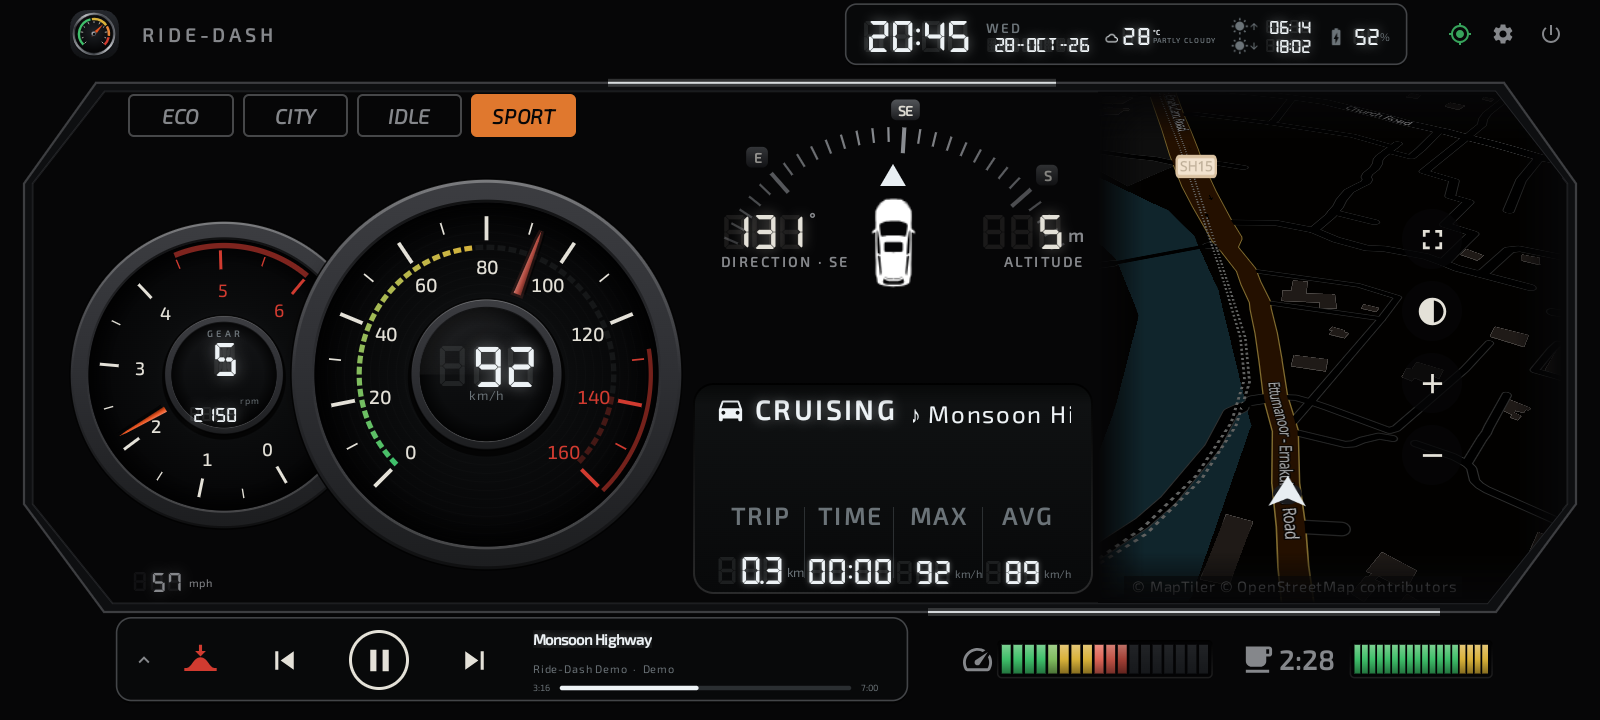
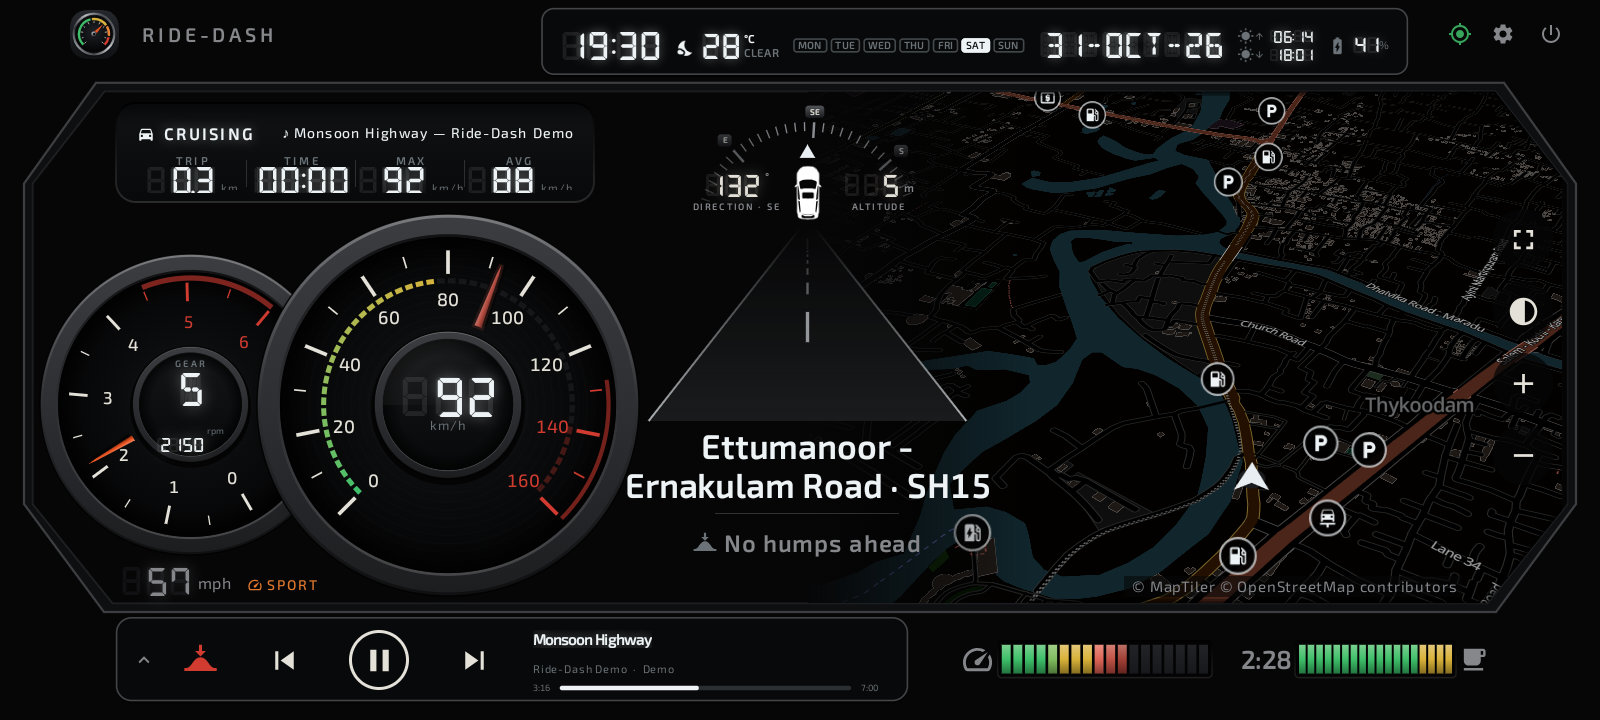
User guide 1.5.0: speed limits, road info, places, long-press navigation, own speed breakers; new screenshots

diff --git a/user-guide.md b/user-guide.md
@@ -4,20 +4,37 @@ title: Ride-Dash user manual
 
 # Ride-Dash user manual
 
-_Version 1.3.0 · October 2026_
+_Version 1.5.0 · October 2026_
 
 Ride-Dash turns the phone in your holder — or your car's Android head unit — into a calm, complete car dashboard:
-live speed, gear, heading and altitude, trip statistics, terrain, speed breaker and break alerts spoken aloud, music,
-the map and "Where's my car". Everything works on the device; no account needed.
+live speed, gear, heading and altitude, the road you are on and its speed limit, trip statistics, terrain, speed
+breaker and break alerts spoken aloud, music, the map with the places you choose, and "Where's my car". Everything
+works on the device; no account needed.
 
 ![Ride-Dash in the Duo layout](images/manual/duo_white_driving_1600x720.png)
 
-**Contents:** [What's new](#whats-new-in-130) · [1 Installing](#1-installing) · [2 First start](#2-first-start) ·
-[3 The dashboard](#3-the-dashboard) · [4 Layouts and colours](#4-layouts-and-colours) · [5 Speed](#5-speed) ·
-[6 Driving mode and terrain](#6-driving-mode-and-terrain) · [7 Map](#7-map) · [8 Music](#8-music) ·
-[9 Trips](#9-trips) · [10 Breaks](#10-break-reminder) · [11 Speed breakers](#11-speed-breakers) ·
-[12 Voice alerts](#12-voice-alerts) · [13 Where's my car](#13-wheres-my-car) · [14 Settings](#14-settings-reference) ·
-[15 Export and storage](#15-export-storage-and-deleting-data) · [16 Troubleshooting](#16-troubleshooting)
+**Contents:** [What's new](#whats-new-in-150) · [1 Installing](#1-installing) · [2 First start](#2-first-start) ·
+[3 The dashboard](#3-the-dashboard) · [4 Layouts and colours](#4-layouts-and-colours) · [5 Speed and speed limits](#5-speed-and-speed-limits) ·
+[6 Driving mode, terrain and road info](#6-driving-mode-terrain-and-road-info) · [7 Map](#7-map) ·
+[8 Places on the map](#8-places-on-the-map) · [9 Music](#9-music) · [10 Trips](#10-trips) ·
+[11 Breaks](#11-break-reminder) · [12 Speed breakers](#12-speed-breakers) · [13 Voice alerts](#13-voice-alerts) ·
+[14 Where's my car](#14-wheres-my-car) · [15 Settings](#15-settings-reference) ·
+[16 Export and storage](#16-export-storage-and-deleting-data) · [17 Troubleshooting](#17-troubleshooting)
+
+## What's new in 1.5.0
+
+- **Road speed limits:** a speed-limit sign for the road you are on (from OpenStreetMap, where mapped), and
+  "Slow down" at that limit plus a tolerance you choose (section 5).
+- **Street name and road info:** the road you are on, the terrain with its gradient ("UPHILL 6 %") and the next speed
+  breaker, shown where turn-by-turn normally appears (section 6).
+- **Places of your choice on the map:** fuel, EV charging, ATMs, hospitals, toll booths, hotels, viewpoints, places of
+  worship and more — tick the ones you want, each with its own icon (section 8).
+- **Navigate to a long-pressed place** by name, also on older head units (section 7).
+- **Turn-by-turn without a box:** the next turn sits right on the dashboard in every layout.
+- **Start-up sweep:** the dials light up and sweep their needles once when Ride-Dash starts (tap to skip).
+- **Every layout tidied up:** bigger maps that reach the frame, the driving style as an icon and coloured word, the
+  rest bar with the coffee cup after it, rpm in the dial, cleaner info bars.
+- White is now the default colour scheme for new installs.
 
 ## What's new in 1.3.0
 
@@ -77,13 +94,14 @@ dashboard top, not inside the glovebox or under metal. Wait outdoors with the en
 | Top left | Your logo and vehicle name; alerts appear here (break, speed breakers) |
 | Top centre | Time, weather, sunrise / sunset, battery, weekday and date |
 | Top right | GPS status, settings, power (end trip and exit) |
-| Mode chips | ECO · CITY · IDLE · SPORT — how you are driving |
-| Speedometer | Speed with colour zones; gear and rpm (estimated); the other unit below |
-| Compass | Heading, direction, altitude above sea level |
+| Driving style | ECO · CITY · IDLE · SPORT — an icon and a coloured word |
+| Speedometer | Speed with colour zones; gear and rpm (estimated); the other unit nearby |
+| Compass and road | Heading, direction, altitude above sea level; the road animation moves with your speed |
+| Road info | Street name, terrain with gradient, next speed breaker — or the next turn while navigating |
 | Trip display | Drive mode, terrain, distance, moving time, top and average speed |
-| Map | Where you are, heading up; speed breakers, sights, your parked car |
+| Map | Where you are, heading up; the places you chose, speed breakers, your parked car; speed-limit sign |
 | Bottom left | **Hump button** (mark a speed breaker), music controls and track |
-| Bottom right | Speed bar and break (rest) bar |
+| Bottom right | Speed bar and break (rest) bar — driving time, bar, coffee cup |
 
 The arrangement differs per layout, but every layout has the same pieces.
 
@@ -112,19 +130,33 @@ You can also upload a background image, your logo and a picture of your car (*Se
 
 ![Duo in Blue](images/manual/duo_blue_driving_1600x720.png)
 
-## 5. Speed
+## 5. Speed and speed limits
 
 - The big number is your speed in your colour scheme; the needle, arc and speed bar change colour with speed:
-  **green** below 50 km/h, **amber** from 50, **red** from 80 (the highway limit), darkest red at 120. Change the
-  limits in *Settings › Trip & speed › Speed colours*.
-- The other unit (mph or km/h) is shown small. Switch the main unit in *Settings › Trip & speed › Unit*.
-- Above the red limit the drive mode shows **OVERSPEED** and blinks; with voice alerts you hear "Slow down".
+  **green** below 50 km/h, **amber** from 50, **red** from 80, darkest red at 120. Change the limits in
+  *Settings › Trip & speed › Speed colours*.
+- The other unit (mph or km/h) is shown smaller. Switch the main unit in *Settings › Trip & speed › Unit*.
+
+**Road speed limit.** Where OpenStreetMap knows the speed limit of the road you are driving, a round sign shows it on
+the map (in Lap beside the driving style). Ride-Dash picks the road you are driving along, so a side road you cross
+doesn't take over. Above the limit plus your **tolerance** (+0, +5 or +10 km/h; default +5) the number on the sign
+turns red, the drive mode shows **SLOW DOWN** and, with voice alerts, you hear "Slow down. Speed limit 60."
+
+![Speed limit](images/manual/duo_white_speed-limit_1600x720.png)
+
+Where no limit is mapped — still many smaller roads in India — the sign is hidden and the old rule applies: SLOW DOWN
+at 80 % of the speedometer's scale, the voice at the red speed colour.
+
+The limits are downloaded for about 5 km around you from OpenStreetMap (your position rounded to about 1 km) and kept
+on the device for 30 days. *Settings › Trip & speed › Speed limits:* on/off and the tolerance.
+
+![Speed breaker and speed limit settings](images/manual/settings_trip-alerts_1600x720.png)
 
 ![Overspeed](images/manual/duo_white_overspeed_1600x720.png)
 
-## 6. Driving mode and terrain
+## 6. Driving mode, terrain and road info
 
-**Driving mode** (the chips): **ECO** smooth and steady · **CITY** slow, stop-and-go traffic · **IDLE** standing more
+**Driving style** (icon and coloured word): **ECO** smooth and steady · **CITY** slow, stop-and-go traffic · **IDLE** standing more
 than 30 s in a trip · **SPORT** brisk acceleration, braking or cornering. It comes from GPS alone and changes after a
 few seconds, so one brake at a signal doesn't flip it.
 
@@ -140,24 +172,74 @@ BRAKING, OVERSPEED, PARKED.
 | WINDING | Many bends |
 | GHAT | Winding and climbing or descending — a hill road |
 
-A new word appears only after it has held for 15 seconds. Phones with a barometer (most) measure height changes
+On climbs and descents the gradient is added: **UPHILL 6 %**, **DOWNHILL 5 %**, **GHAT 8 %**. A new word appears only
+after it has held for 15 seconds. Phones with a barometer (most) measure height changes
 precisely; head units use GPS height. The trip log shows how much of each trip was in each terrain.
 
 ![Ghat road](images/manual/duo_white_ghat-break-alert_1600x720.png)
+
+**Road info.** When no route is running, the place where turn-by-turn normally appears shows:
+
+- the **street name** of the road you are on, with its route number ("Ettumanoor - Ernakulam Road · SH15");
+- the **terrain** with its gradient;
+- the **next speed breaker** on your road ("Hump in 350 m" up to 2 km ahead, or "No humps ahead"), when speed breaker
+  alerts are on.
+
+The street name comes from the map itself, so it needs no extra data. It keeps the current road at junctions instead
+of flickering. On older head units that show the picture-tile map, street names aren't available and only the
+terrain and speed breaker lines appear. In some layouts the street name only appears once the map is zoomed in far
+enough to show street names.
+
+Where it shows: Duo and Lap under the map or compass, Classic and Twin beside the compass, Modern, Sport and Cockpit over
+the top of the map, Open over the road animation. While Google Maps or Waze is navigating, the **next turn** (arrow,
+distance, instruction) takes its place.
 
 ## 7. Map
 
 - **Heading-up:** the map turns with the car (north-up in *Settings › Map*).
 - **Map style:** *Classic* (dark street map, default) or *Modern* (a crisper vector map, on devices whose graphics allow it).
-- **Places and sights:** viewpoints, monuments, waterfalls and other sights get a camera marker. The places button
-  on the map shows or hides points of interest.
-- **Navigate anywhere:** press and hold a place on the map → "Navigate to …?" → **Navigate** opens Google Maps
-  directions by car.
+- **Places:** the places you choose (section 8). The places button on the map shows or hides them all.
 - **Full screen:** the expand button fills the screen with the map; Back returns.
 - **Next turn** from Google Maps or Waze appears on the dashboard while they navigate (needs the access in step 2).
 - Speed breakers show as red-bordered road signs; your parked car as a blue **P**.
 
-## 8. Music
+**Navigate to a long-pressed place.** Press and hold any spot on the map for about a second:
+
+1. Ride-Dash names the place under your finger — a shop, a landmark, or the road — and asks **"Navigate to MASS
+   Road?"** (or "Navigate here?" where there is no name), with how far away it is.
+2. **Navigate** opens Google Maps with directions by car from where you are; without Google Maps, any installed
+   navigation app is offered. **Cancel** or wait 15 seconds to close the question.
+
+![Navigate to a long-pressed place](images/manual/duo_white_navigate_1600x720.png)
+
+On older head units with the picture-tile map, press and hold a place icon to navigate to it by name; elsewhere the
+pressed spot is used. Press and hold one of **your own speed breakers** to delete it instead (section 12).
+
+## 8. Places on the map
+
+*Settings › Map › Map points of interest* (under **Show places**): tick the places you want to see. Each group has
+**Select all / Select none**; changes show on the map at once.
+
+| Group | Places (ticked when you install) |
+| --- | --- |
+| Essentials | **Fuel stations**, **EV charging**, **ATMs**, **Hospitals**, Pharmacies, **Police stations**, Toilets |
+| Vehicle | **Car service / repair**, **Tyre / puncture repair**, Car wash, **Parking**, **Toll booths** |
+| Food & rest | **Restaurants**, Cafés / tea shops, Fast food, **Hotels / motels / lodges**, **Rest areas** |
+| Travel | Railway stations, Bus stations, Airports |
+| Sightseeing | **Viewpoints / photo points**, Tourist attractions, Beaches, Waterfalls, Museums, Parks, Places of worship, Cinemas |
+
+![Map points of interest](images/manual/settings_map-places_1600x720.png)
+
+- Every type has its own icon in your display colour; places of worship show a church, mosque, temple or other icon by
+  religion.
+- To keep the map calm, only a few icons show when zoomed out — essentials first — and food appears once you zoom in to
+  street level. Names appear close up.
+- **Show places** off hides them all.
+- On phones and newer head units the places come with the map itself. On older head units (picture-tile map) they are
+  downloaded from OpenStreetMap for about 5 km around you, one group at a time, and kept for 30 days — the first time
+  in a new area they can take a minute to appear.
+
+## 9. Music
 
 The music panel shows the playing track, a seek bar and large **previous / play-pause / next** buttons on the left
 (within reach even with a phone holder in the middle of the screen). It follows whatever app is playing: Spotify,
@@ -169,7 +251,7 @@ YouTube Music, the radio app, Bluetooth audio.
 - The arrow at the left switches between the music panel and your favourite apps (*Settings › Launcher & apps ›
   Choose dock apps*).
 
-## 9. Trips
+## 10. Trips
 
 - A trip **starts by itself** after about 10 seconds above 7 km/h and 50 m moved — walking or GPS drift never starts
   one.
@@ -179,18 +261,18 @@ YouTube Music, the radio app, Bluetooth audio.
   and marked "auto (power off)" in the export.
 - The trip display shows **TRIP** (distance), **TIME** (moving time), **MAX** and **AVG** (moving average).
 - Trips shorter than 200 m or 1 minute are not kept.
-- *Settings › Trip & speed › Trip log* lists your trips; export them to Excel (section 15).
+- *Settings › Trip & speed › Trip log* lists your trips; export them to Excel (section 16).
 
-## 10. Break reminder
+## 11. Break reminder
 
-The coffee-cup bar fills with your continuous driving time (green, amber in the last 30 minutes, red with BREAK when
+The rest bar (driving time, the bar, then the coffee cup) fills from left to right with your continuous driving time (green, amber in the last 30 minutes, red with BREAK when
 due). After **2.5 hours** (*Remind after*), **Time for a break** blinks at the top left — never over the speed or the
 map — and is spoken. Tap it to snooze for 15 minutes. Short stops pause the timer; standing still for **15 minutes**
 (*Break length to reset*) starts it afresh.
 
 ![Break alert](images/manual/duo_white_ghat-break-alert_1600x720.png)
 
-## 11. Speed breakers
+## 12. Speed breakers
 
 **Humps ahead · 150 m** appears in red at the top left before a speed breaker on the road ahead, about 9 seconds
 early at your speed (80–300 m), and you hear "Speed breaker ahead". Only humps on the road you are driving count —
@@ -203,19 +285,25 @@ banner clears once you're past.
 breakers within about 5 km of you (sending only a position rounded to about 1 km) and keeps them on the phone, so
 roads you have driven before work offline.
 
-**Mark hump here:** many Indian humps are not in OpenStreetMap yet. Tap the **hump button** (bottom left) as you pass
-one — it is saved at your position and alerts like the others. To delete one of yours, press and hold it on the map →
-**Delete**.
+**Map your own speed breakers.** Many Indian humps are not in OpenStreetMap yet. As you drive over one, tap the **hump
+button** (the red hump sign at the bottom left of the dashboard). It is saved at your position — "Speed breaker marked"
+confirms it — shows on the map as a sign, and alerts you like the others from then on. Your marks stay only on this
+device.
+
+**Remove one of yours:** press and hold it on the map → **Delete this speed breaker?** → **Delete**. Speed breakers from
+OpenStreetMap can't be deleted (they are fixed in OpenStreetMap itself).
+
+**Next speed breaker:** the road info (section 6) shows how far the next one on your road is, up to 2 km ahead.
 
 *Settings › Trip & speed › Speed breakers:* on/off and **Alert distance** Near / Normal / Far.
 
-## 12. Voice alerts
+## 13. Voice alerts
 
 Spoken through the car speakers like navigation (music gets quieter, then comes back):
 
 - "You've been driving for two and a half hours. Time for a break." (your configured time)
-- "Slow down. Speed limit 80." after 3 seconds above the red limit; again only after slowing 5 km/h below it, at most
-  once a minute.
+- "Slow down. Speed limit 60." after 3 seconds above the road's limit plus your tolerance (or the red speed colour where
+  no limit is mapped); again only after slowing 5 km/h below it, at most once a minute.
 - "Speed breaker ahead."
 
 *Settings › Trip & speed › Voice alerts:* on/off, a switch per alert, and **Test**.
@@ -224,7 +312,7 @@ Spoken through the car speakers like navigation (music gets quieter, then comes 
 To get voices: install **Speech Services by Google** (Play Store, or its APK on units without Play), open *Android
 Settings › Text-to-speech*, choose it as the engine, download the **English (India)** voice, and restart Ride-Dash.
 
-## 13. Where's my car
+## 14. Where's my car
 
 When a trip ends, the last good GPS position is saved as your parking spot — even in a covered car park where the
 signal got weak at the end. Tap the **P** button on the map:
@@ -237,7 +325,7 @@ signal got weak at the end. Tap the **P** button on the map:
 
 The last 10 spots are in *Settings › Trip & speed › Parking history* and in the Excel export.
 
-## 14. Settings reference
+## 15. Settings reference
 
 | Page | Setting | Default |
 | --- | --- | --- |
@@ -255,10 +343,12 @@ The last 10 spots are in *Settings › Trip & speed › Parking history* and in 
 | Trip & speed | Speed bar full at | 160 km/h |
 | Trip & speed | Speed colours: amber / red / darkest red | 50 / 80 / 120 km/h |
 | Trip & speed | Speed breaker alerts · alert distance | on · Normal |
+| Trip & speed | Road speed limits · tolerance | on · +5 km/h |
 | Trip & speed | Voice alerts · break · overspeed · speed breakers | all on |
 | Trip & speed | Keep route points for | 90 days |
 | Map | Map style | Classic |
 | Map | Show places · heading-up · next-turn card | on · on · on |
+| Map | Map points of interest | essentials, vehicle, restaurants, hotels, rest areas, viewpoints (section 8) |
 | Display | Orientation | Landscape |
 | Display | 24-hour clock · driving mode indicator · logo at start-up | on · on · on |
 | Display | Full screen | on |
@@ -269,7 +359,7 @@ The last 10 spots are in *Settings › Trip & speed › Parking history* and in 
 | Launcher & apps | Show app dock · dock apps | on · a few common apps |
 | Location | Track trip in background | on |
 
-## 15. Export, storage and deleting data
+## 16. Export, storage and deleting data
 
 - **Export:** *Settings › Trip & speed › Export trips to Excel* — save the file or share it. One row per trip: times,
   distance, speeds, harsh events, driving style and terrain shares, gears, breaks; a Parking sheet; optionally the
@@ -280,14 +370,17 @@ The last 10 spots are in *Settings › Trip & speed › Parking history* and in 
 - **Delete:** *Delete all trip data* removes trips, routes and parking spots. Uninstalling removes everything.
 - Nothing is uploaded: see the [privacy policy](privacy-policy.html).
 
-## 16. Troubleshooting
+## 17. Troubleshooting
 
 | Problem | Try this |
 | --- | --- |
 | Speed stays `--`, "SEARCHING GPS" | Go outdoors; on head units check the GPS antenna can see the sky; wait a few minutes the first time. *Settings › Location* — is location allowed? |
 | Gauges slow to react after parking | Fixed in 1.3.0 — update. |
 | No song title | Allow *Music controls & track info* (Settings › Launcher & apps). Bluetooth music on some head units never sends titles; the buttons still work. |
-| No voice | *Settings › Trip & speed › Voice alerts › Test*. If it says there's no engine, install one (section 12). Check the media volume. |
+| No voice | *Settings › Trip & speed › Voice alerts › Test*. If it says there's no engine, install one (section 13). Check the media volume. |
+| No speed-limit sign | Most smaller roads have no limit in OpenStreetMap yet; the sign shows only where one is mapped. The first download in an area needs internet. Is *Road speed limits* on? |
+| No street name | Phones and newer units only (not the picture-tile map of older head units). Zoom the map in a step. |
+| A place type missing on the map | Tick it in *Settings › Map › Map points of interest*; zoom in — some show only close up. |
 | No speed breaker alerts | Is the setting on? Are you above 15 km/h? The hump may not be in OpenStreetMap — mark it with the hump button. The first download needs internet. |
 | Map is blank | The map needs internet the first time in an area (phone hotspot on head units). |
 | Trip split in two | Raise *End trip after stopped for*. |
